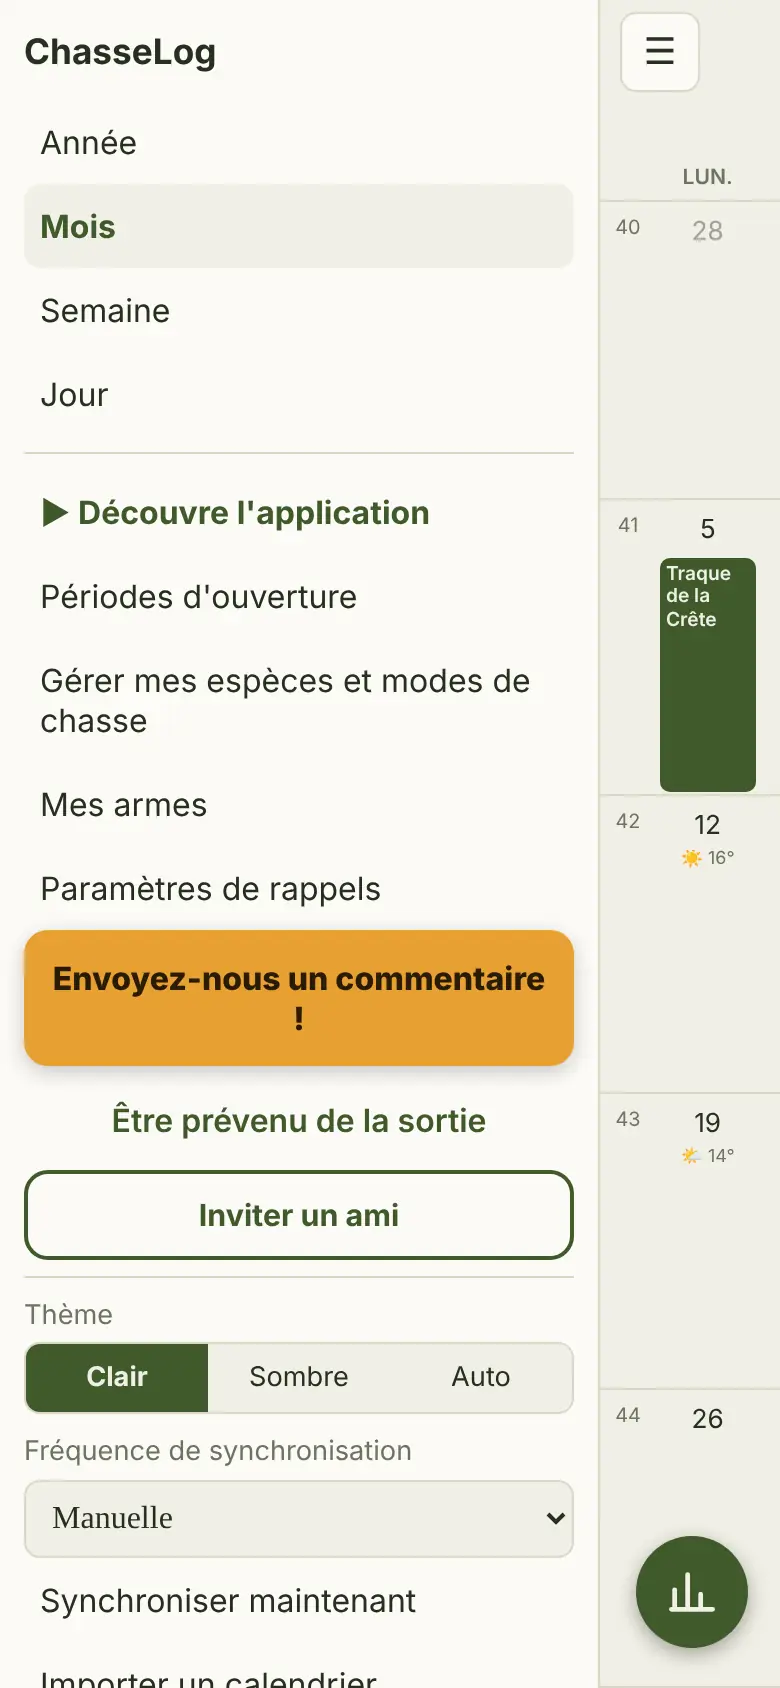
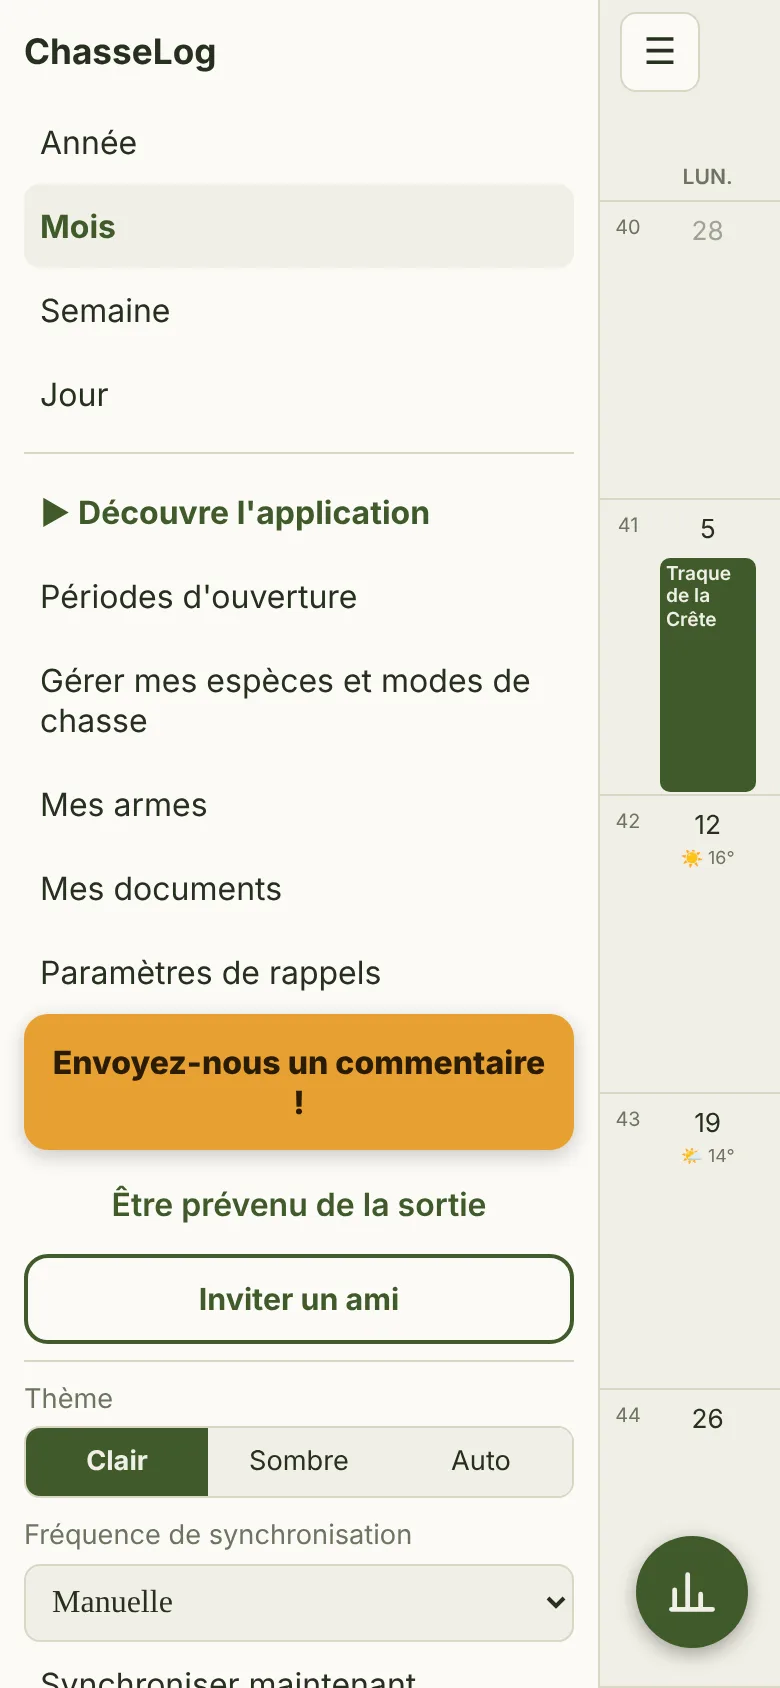
Visite guidée : étape « Mes documents » – version 2026-10-10h
Claude-Session: https://claude.ai/code/session_0186hciEuPyU4mgRMjZZiZQe

Changed region(s): [[0.0, 0.5237, 0.7385, 0.955], [0.0308, 0.9858, 0.5538, 1.0], [0.5846, 0.8009, 0.6769, 0.8934]]

diff --git a/index.html b/index.html
@@ -218,7 +218,7 @@ html.in-on,html.in-on body{overflow:hidden}
 <hr><button class="m" id="m-tour" style="font-weight:700;color:var(--acc)">▶ Découvre l'application</button><button class="m" id="m-ouv">Périodes d'ouverture</button><button class="m" id="m-mg">Gérer mes espèces et modes de chasse</button><button class="m" id="m-ar">Mes armes</button><button class="m" id="m-doc">Mes documents</button><button class="m" id="m-rm">Paramètres de rappels</button>
 <div style="margin-top:auto"><button id="m-fb" style="display:block;width:100%;text-align:center;border:0;border-radius:12px;background:#e8a032;color:#2a1c05;font:800 1rem system-ui;padding:14px 10px;box-shadow:0 3px 10px #0003;margin-bottom:6px">Envoyez-nous un commentaire !</button><button id="m-nl" class="m" style="text-align:center;font-weight:600;color:var(--acc);margin-bottom:4px">Être prévenu de la sortie</button><button id="m-inv" style="display:block;width:100%;text-align:center;border:2px solid var(--acc);border-radius:12px;background:none;color:var(--acc);font:700 .95rem system-ui;padding:11px 10px;margin-bottom:6px">Inviter un ami</button><hr><label>Thème</label><div class="seg" id="th"><button data-th="light">Clair</button><button data-th="dark">Sombre</button><button data-th="auto">Auto</button></div><label>Fréquence de synchronisation</label><select id="sy">
 <option value="manual">Manuelle</option><option value="15">Toutes les 15 minutes</option><option value="60">Toutes les heures</option><option value="day">Une fois par jour</option><option value="wifi">Dès que le réseau revient</option></select>
-<button class="m" id="m-sy">Synchroniser maintenant</button><button class="m" id="m-im">Importer un calendrier</button><button class="m" id="m-ex">Exporter mon calendrier</button><button class="m" id="m-bk">Sauvegarde automatique</button><p style="margin:10px 8px 0;font:.75rem system-ui;color:var(--mut)">ChasseLog bêta web · version 2026-10-10g<br>Météo : KNMI Harmonie (2 km) et ECMWF, via Open-Meteo.com</p></div></aside>
+<button class="m" id="m-sy">Synchroniser maintenant</button><button class="m" id="m-im">Importer un calendrier</button><button class="m" id="m-ex">Exporter mon calendrier</button><button class="m" id="m-bk">Sauvegarde automatique</button><p style="margin:10px 8px 0;font:.75rem system-ui;color:var(--mut)">ChasseLog bêta web · version 2026-10-10h<br>Météo : KNMI Harmonie (2 km) et ECMWF, via Open-Meteo.com</p></div></aside>
 <div id="page"><main id="app"></main></div>
 <script>
 const G={"Grand gibier":["Cerf élaphe","Chevreuil","Sanglier","Daim","Mouflon"],
@@ -422,7 +422,7 @@ let BIP=null;addEventListener("beforeinstallprompt",e=>{e.preventDefault();BIP=e
  $("#in-sk").onclick=()=>{try{sessionStorage.setItem("chasselog-skipinst","1")}catch(e){}o.remove();document.documentElement.classList.remove("in-on")}})();
 
 /* ---------- visite guidée « Découvre l'application » ---------- */
-const TAPS={"mn":[30,26],"ouv":[149.5,297.5],"om":[192.2,102.9],"fab":[344,796],"title":[195,190.8],"ta":[122.6,434.6],"save":[285.5,813],"pst":[195,26],"bang":[195,793],"psok":[330.8,762.3],"sang":[71.7,172.8],"plus":[112,311.2],"ok":[195,792],"cpl":[283.1,101.5],"sx":[81.4,251],"kg":[252,456],"photo":[167,555.3],"tb":[195,696.6],"tabplus":[344,591.2],"fsave":[285.5,813],"share":[195,152.3],"stats":[46,796],"sprev":[248,75.6]};
+const TAPS={"mn":[30,26],"ouv":[149.5,297.5],"om":[192.2,102.9],"fab":[344,796],"title":[195,190.8],"ta":[122.6,434.6],"save":[285.5,813],"pst":[195,26],"bang":[195,793],"psok":[330.8,762.3],"sang":[71.7,172.8],"plus":[112,311.2],"ok":[195,792],"cpl":[283.1,101.5],"sx":[81.4,251],"kg":[252,456],"photo":[167,555.3],"tb":[195,696.6],"tabplus":[344,591.2],"fsave":[285.5,813],"share":[195,152.3],"stats":[46,796],"sprev":[248,75.6],"mdoc":[149.5,443.5],"dadd":[195,214.6],"dvid":[73.3,683.6]};
 // étapes : [titre, texte, actions]. Actions : ["s",écran] afficher, ["sl",écran] défiler, ["t",bouton] toucher, ["n",note] note jaune, ["w",ms] attendre, ["r",bouton] anneau, ["i",image] image par-dessus
 const TOUR=[
  ["Consulte les périodes d'ouverture","Les dates d'ouverture et de fermeture du gibier en Wallonie, selon ton mode de chasse.",[["s","cal0"],["w",1400],["t","mn"],["s","drawer"],["w",1500],["t","ouv"],["s","ouv0"],["n","Ce qui est ouvert aujourd'hui, avec la frise de la saison"],["w",3200],["t","om"],["s","ouv1"],["n","Choisis ton mode : battue, approche et affût, chasse à vol"],["w",2800],["sl","ouv2"],["w",1500]]],
@@ -432,7 +432,8 @@ const TOUR=[
  ["Un tir ? Appuie sur BANG !","Pendant ta journée, encode ton tir en quelques secondes, sans rien oublier.",[["s","calposte"],["w",1200],["t","bang"],["s","pick"],["n","Choisis le gibier"],["w",2600],["t","sang"],["s","quick0"],["n","Indique le résultat : touché, prélevé ou raté"],["w",2800],["t","plus"],["s","quick1"],["w",1500],["t","ok"],["s","calsaved"],["n","C'est enregistré !"],["w",2200]]],
  ["Complète les infos en fin de journée","Le soir, ChasseLog te rappelle ce qu'il manque : poids, cors, sexe, photo, tableau final.",[["s","calmd"],["n","Un rappel apparaît en fin de journée"],["w",2600],["t","cpl"],["s","fiche0"],["w",1500],["t","sx"],["t","kg"],["s","fiche1"],["n","Sexe, poids et arme utilisée"],["w",2800],["t","photo"],["n","Ajoute une photo de l'animal"],["w",2200],["sl","fiche2"],["w",1200],["t","tb"],["s","tab1"],["n","Encode le tableau final de la journée"],["w",2600],["t","tabplus"],["s","tab2"],["w",2000],["s","fiche3"],["w",1300],["t","fsave"],["s","sum0"],["n","Le résumé de ta journée"],["w",2600]]],
  ["Partage ta journée","Envoie une belle image de ta journée à tes amis : tes résultats et le tableau final.",[["s","sum0"],["w",1300],["t","share"],["i","share"],["w",4000]]],
- ["Consulte tes statistiques","La saison en cours et les saisons passées : précision, prélèvements, records, poste porte-bonheur…",[["s","cal2"],["w",1200],["t","stats"],["s","stats0"],["n","Journées, prélèvements et précision de tir"],["w",3500],["sl","stats1"],["n","Tes records, ton poste porte-bonheur, tes résultats par arme"],["w",3800],["sl","stats3"],["n","Compare tes saisons et tes lieux de chasse"],["w",3500],["s","stats0"],["w",1000],["t","sprev"],["s","statsP"],["n","Revois une saison passée"],["w",3000]]]
+ ["Consulte tes statistiques","La saison en cours et les saisons passées : précision, prélèvements, records, poste porte-bonheur…",[["s","cal2"],["w",1200],["t","stats"],["s","stats0"],["n","Journées, prélèvements et précision de tir"],["w",3500],["sl","stats1"],["n","Tes records, ton poste porte-bonheur, tes résultats par arme"],["w",3800],["sl","stats3"],["n","Compare tes saisons et tes lieux de chasse"],["w",3500],["s","stats0"],["w",1000],["t","sprev"],["s","statsP"],["n","Revois une saison passée"],["w",3000]]],
+ ["Tes documents toujours à portée de main","Ajoute ton permis de chasse, ton attestation d'assurance et ta carte d'identité : tout est dans ton téléphone, même sans réseau.",[["s","cal0"],["w",1200],["t","mn"],["s","drawer"],["w",1300],["t","mdoc"],["s","docs0"],["n","Prends une photo ou choisis un fichier"],["w",2600],["t","dadd"],["s","docs1"],["n","Indique la date de fin de validité de ton permis et de ton assurance"],["w",3200],["t","dvid"],["s","docs2"],["n","Montre-les en un geste lors d'un contrôle"],["w",3000]]]
 ];
 function startTour(){if($("#tour"))return;shut&&document.body.classList.contains("dr")&&shut();
  const o=document.createElement("div");o.id="tour";document.body.appendChild(o);document.documentElement.classList.add("in-on");
@@ -913,7 +914,7 @@ function rArmes(){S.guns=S.guns||[];const cat=ag.type?ARMES[ag.type]:null,brandO
 /* ---------- rappels ---------- */
 const RM=()=>{if(!S.rem)S.rem={};const r=S.rem;if(r.sleep===undefined)r.sleep=false;if(!r.time)r.time="20:00";if(r.auto===undefined)r.auto=false;return r};
 const dueOf=e=>new Date(e.date+"T"+e.rem+":00").getTime();
-const APP_V="2026-10-10g",APP_URL="https://chasselog-coder.github.io/ChasseLog/";
+const APP_V="2026-10-10h",APP_URL="https://chasselog-coder.github.io/ChasseLog/";
 const REM_ON=false;
 async function syncRem(){if(!REM_ON)return;try{const RMs=RM(),now=Date.now();let old=[];try{old=JSON.parse(await DB.get("_rem")||"[]")}catch(x){}const fired=new Set(old.filter(x=>x.fired).map(x=>x.id+"|"+x.due));
  const list=RMs.sleep?[]:evs().filter(e=>e.rem&&!e.fiche&&!e.remDone&&now-dueOf(e)<36*36e5).map(e=>({id:e.id,title:e.title,date:e.date,due:dueOf(e),fired:fired.has(e.id+"|"+dueOf(e))}));await DB.put("_rem",JSON.stringify(list));

diff --git a/sw.js b/sw.js
@@ -1,6 +1,6 @@
 // Service worker : met l'application en cache pour qu'elle fonctionne sans connexion.
 // Les fonds de carte (OpenStreetMap) ne sont volontairement PAS mis en cache.
-const V = "carnet-v38";
+const V = "carnet-v39";
 const FILES = [
   "./", "index.html", "manifest.webmanifest",
   "icons/icon-192.png", "icons/icon-512.png", "icons/maskable-512.png", "icons/apple-touch-icon.png",
